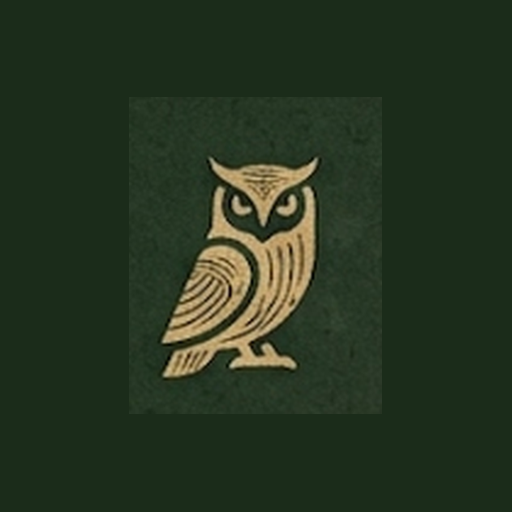
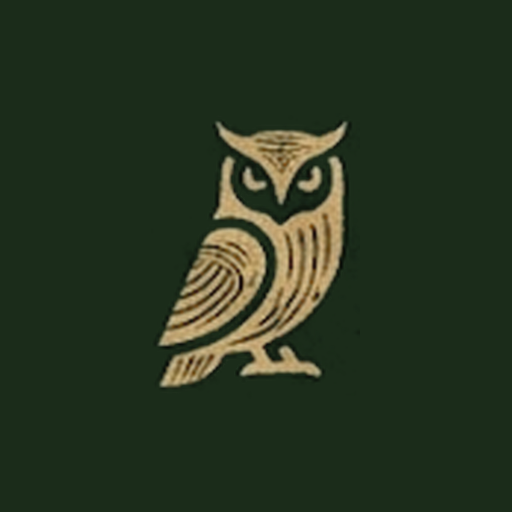
Cut the wordmark out of its background instead of masking it
Blend modes and a radial mask both left a visible rectangle, because the
artwork still carried its own green field. Keying it out removes the edge
entirely: alpha comes from each pixel's distance to a heavily blurred copy
of itself, so the vignette is handled rather than fought, and the strokes
are unmixed so they keep their own colour on any backdrop.

Thresholds are measured, not guessed - paper texture sits around 8, the
strokes at 60-140, so the cut is at 28 with a ramp to 90.

Changed region(s): [[0.3125, 0.2188, 0.6875, 0.7812]]

diff --git a/web/app/globals.css b/web/app/globals.css
@@ -75,15 +75,11 @@ code {
 }
 .splash-inner { text-align: center; animation: splash-in 1.1s var(--ease) both; }
 .splash-banner {
-  width: min(680px, 86vw); height: auto; display: block;
-  /* The artwork carries its own green field. Screen-blending lightened it and
-     left a visible rectangle, so instead the backdrop matches the banner's
-     green exactly and a radial mask dissolves the edges into it. */
-  -webkit-mask-image: radial-gradient(ellipse 62% 58% at 50% 50%,
-                      #000 58%, rgba(0,0,0,.55) 78%, transparent 100%);
-          mask-image: radial-gradient(ellipse 62% 58% at 50% 50%,
-                      #000 58%, rgba(0,0,0,.55) 78%, transparent 100%);
-  filter: saturate(1.06) contrast(1.03);
+  width: min(640px, 84vw); height: auto; display: block;
+  /* The artwork is cut out of its green field (transparent PNG), so there is
+     no rectangle to hide — masking or blend modes are not needed and a soft
+     drop shadow can lift it off the backdrop instead. */
+  filter: drop-shadow(0 6px 26px rgba(0,0,0,.4));
 }
 .splash p {
   margin: 6px 0 0; color: #9FB093; font-size: 12.5px;

diff --git a/web/app/Splash.tsx b/web/app/Splash.tsx
@@ -23,7 +23,7 @@ export default function Splash() {
     <div className="splash" aria-hidden>
       <div className="splash-inner">
         {/* eslint-disable-next-line @next/next/no-img-element */}
-        <img className="splash-banner" src="/sentinel-banner.jpg" alt="Sentinel" />
+        <img className="splash-banner" src="/sentinel-wordmark.png" alt="Sentinel" />
         <div className="splash-rule" />
         <p>Flood early warning · Visakhapatnam</p>
       </div>
